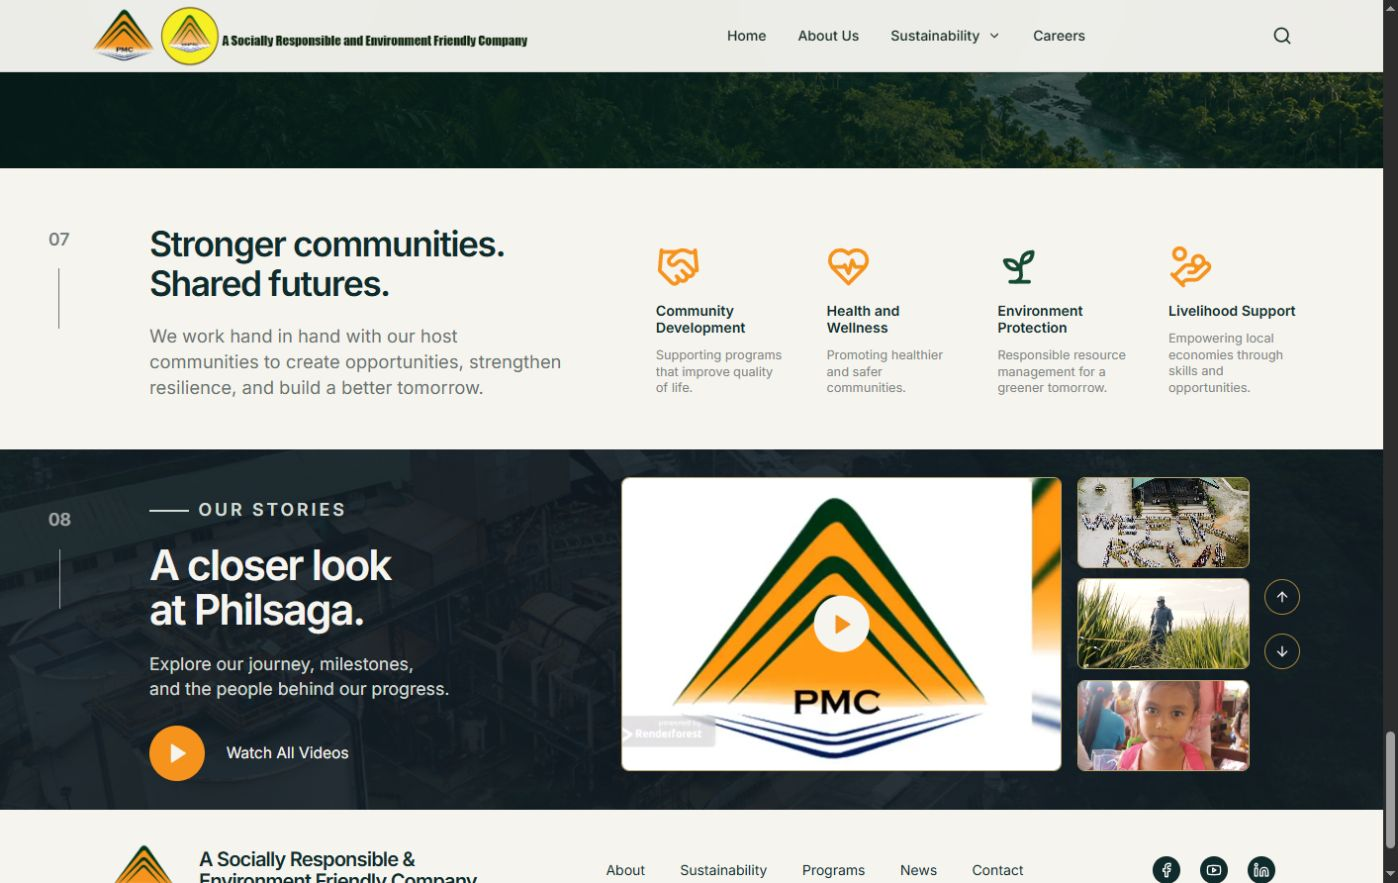
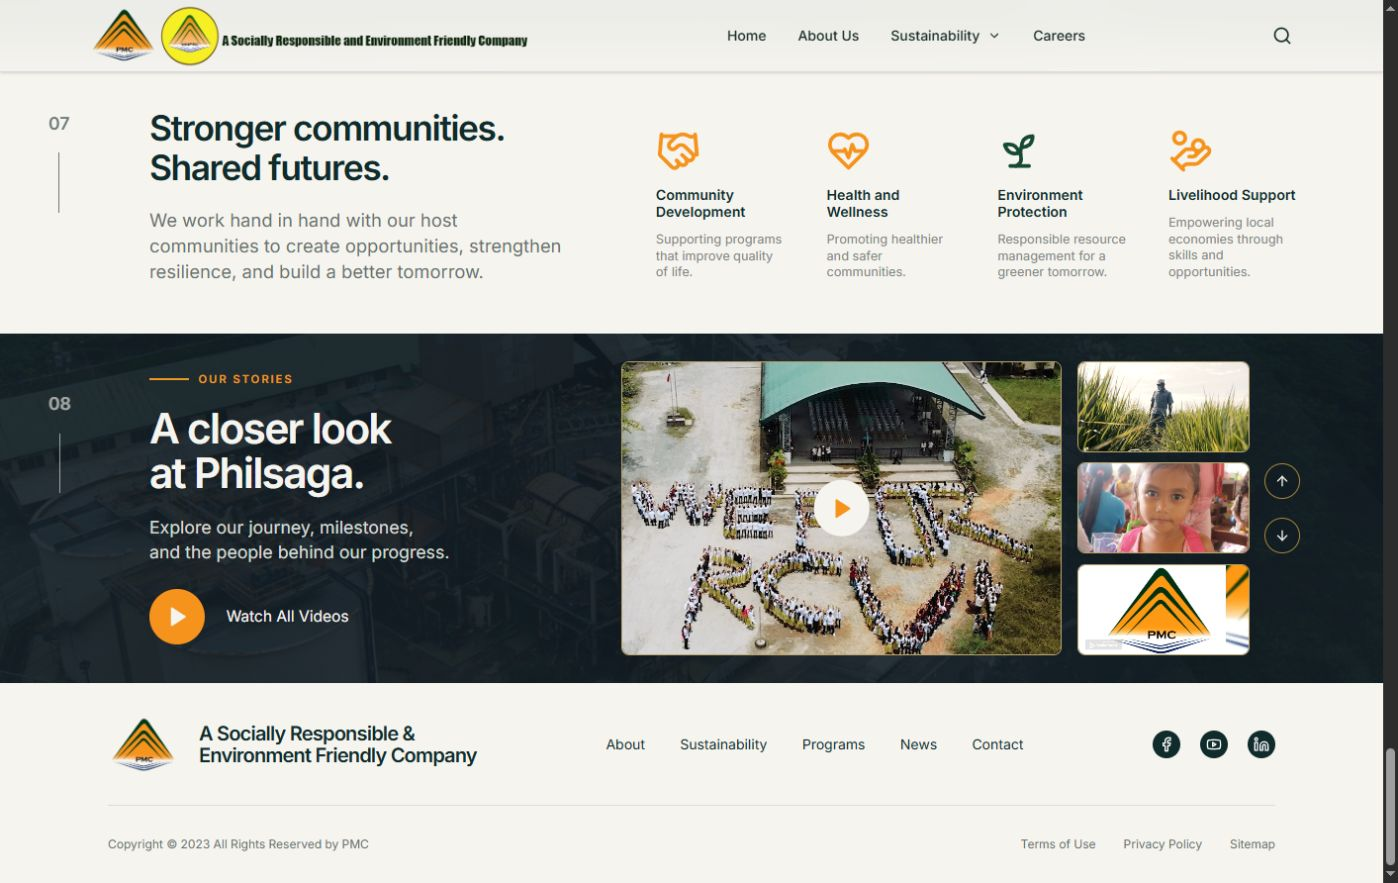
Match video eyebrow styling to editorial labels

diff --git a/src/components/CommunityMedia.css b/src/components/CommunityMedia.css
@@ -93,8 +93,15 @@
   align-self: center;
 }
 
-.community-media__eyebrow {
+.community-media__copy > .community-media__eyebrow {
+  margin-top: 0;
   margin-bottom: clamp(12px, 1.5vw, 22px);
+  color: #ee9a20;
+  font-size: clamp(8px, 0.8vw, 13px);
+  font-weight: 700;
+  line-height: normal;
+  letter-spacing: 0.17em;
+  text-transform: uppercase;
 }
 
 .community-media h2 {

diff --git a/CHANGELOG.md b/CHANGELOG.md
@@ -67,3 +67,9 @@
 - Added the Our Stories eyebrow using the same style as the Vision and Mission labels.
 - Corrected the Watch All Videos play control to remain circular and adjusted the mobile gallery to stack thumbnails and arrow controls cleanly.
 
+
+## Our Stories eyebrow color
+
+- Matched the eyebrow's orange color, type size, weight, spacing and uppercase treatment to the Vision and Mission labels, overriding the video paragraph styles that had taken precedence.
+- Confirmed the corrected rendering in the browser and rebuilt successfully.
+
